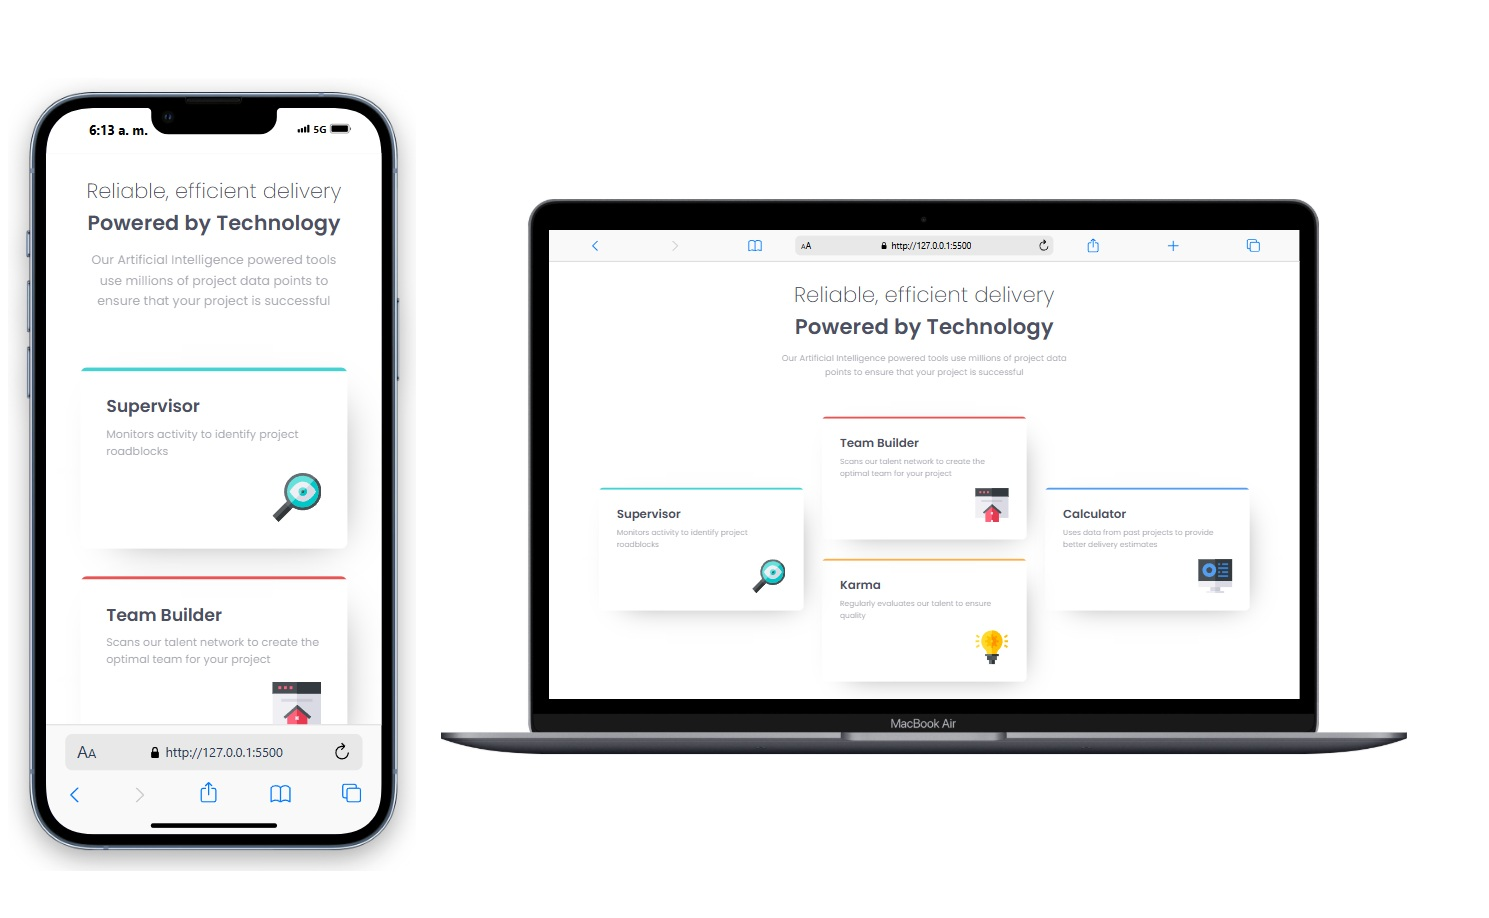
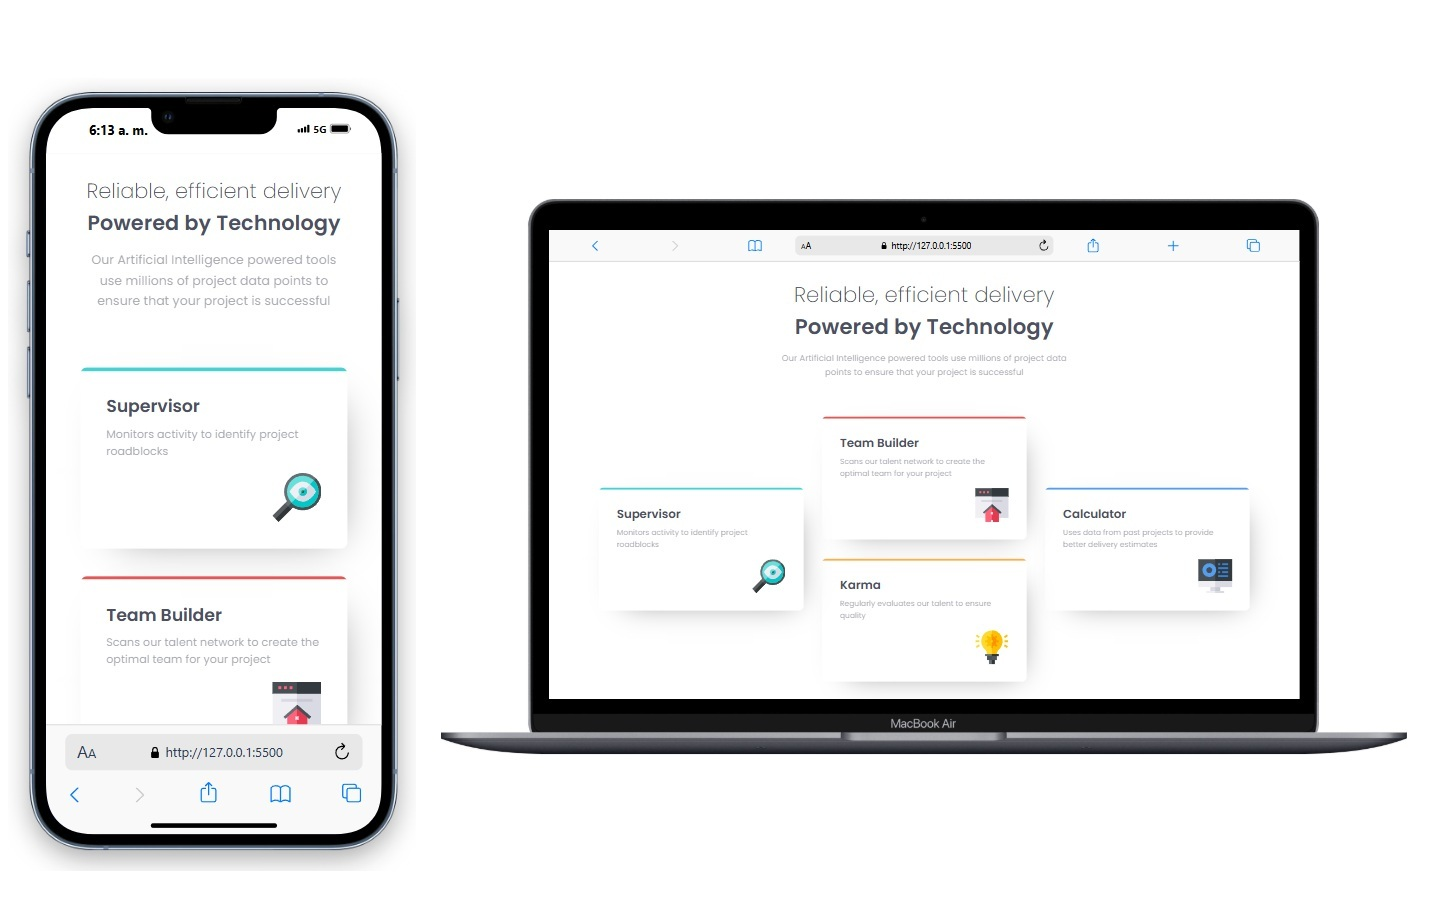
readme

diff --git a/README.md b/README.md
@@ -1,91 +1,85 @@
-# Frontend Mentor - Four card feature section
+# Frontend Mentor - Four card feature section solution
 
-![Design preview for the Four card feature section coding challenge](./design/desktop-preview.jpg)
+This is a solution to the [Four card feature section challenge on Frontend Mentor](https://www.frontendmentor.io/challenges/four-card-feature-section-weK1eFYK). Frontend Mentor challenges help you improve your coding skills by building realistic projects. 
 
-## Welcome! 👋
+## Table of contents
 
-Thanks for checking out this front-end coding challenge.
+- [Overview](#overview)
+  - [The challenge](#the-challenge)
+  - [Screenshot](#screenshot)
+  - [Links](#links)
+- [My process](#my-process)
+  - [Built with](#built-with)
+  - [What I learned](#what-i-learned)
+- [Author](#author)
+- [Instructions](#instructions)
 
-[Frontend Mentor](https://www.frontendmentor.io) challenges help you improve your coding skills by building realistic projects.
 
-**To do this challenge, you need a basic understanding of HTML and CSS.**
 
-## The challenge
+## Overview
 
-Your challenge is to build out this feature section and get it looking as close to the design as possible.
+### The challenge
 
-You can use any tools you like to help you complete the challenge. So if you've got something you'd like to practice, feel free to give it a go.
-
-Your users should:
+Users should be able to:
 
 - View the optimal layout for the site depending on their device's screen size
 
-Want some support on the challenge? [Join our community](https://www.frontendmentor.io/community) and ask questions in the **#help** channel.
+### Screenshot
 
-## Where to find everything
+![](./images/screenshot.jpg)
 
-Your task is to build out the project to the designs inside the `/design` folder. You will find both a mobile and a desktop version of the design. 
 
-The designs are in JPG static format. Using JPGs will mean that you'll need to use your best judgment for styles such as `font-size`, `padding` and `margin`. 
+### Links
 
-If you would like the design files (we provide Sketch & Figma versions) to inspect the design in more detail, you can [subscribe as a PRO member](https://www.frontendmentor.io/pro).
+- Solution URL: [Add solution URL here](https://github.com/NavarroEmiliano/four-card-feature-section)
+- Live Site URL: [Add live site URL here](https://four-card-feature-section-navarro.vercel.app/)
 
-You will find all the required assets in the `/images` folder. The assets are already optimized.
+## My process
 
-There is also a `style-guide.md` file containing the information you'll need, such as color palette and fonts.
+### Built with
 
-## Building your project
+- Semantic HTML5 markup
+- Mobile-first workflow
+- [SASS](https://sass-lang.com/) - For styles
+- Flexbox
+- Grid
 
-Feel free to use any workflow that you feel comfortable with. Below is a suggested process, but do not feel like you need to follow these steps:
 
-1. Initialize your project as a public repository on [GitHub](https://github.com/). Creating a repo will make it easier to share your code with the community if you need help. If you're not sure how to do this, [have a read-through of this Try Git resource](https://try.github.io/).
-2. Configure your repository to publish your code to a web address. This will also be useful if you need some help during a challenge as you can share the URL for your project with your repo URL. There are a number of ways to do this, and we provide some recommendations below.
-3. Look through the designs to start planning out how you'll tackle the project. This step is crucial to help you think ahead for CSS classes to create reusable styles.
-4. Before adding any styles, structure your content with HTML. Writing your HTML first can help focus your attention on creating well-structured content.
-5. Write out the base styles for your project, including general content styles, such as `font-family` and `font-size`.
-6. Start adding styles to the top of the page and work down. Only move on to the next section once you're happy you've completed the area you're working on.
+### What I learned
 
-## Deploying your project
+I learned how to use grid to position elements as a rhombus
 
-As mentioned above, there are many ways to host your project for free. Our recommended hosts are:
 
-- [GitHub Pages](https://pages.github.com/)
-- [Vercel](https://vercel.com/)
-- [Netlify](https://www.netlify.com/)
+## Author
 
-You can host your site using one of these solutions or any of our other trusted providers. [Read more about our recommended and trusted hosts](https://medium.com/frontend-mentor/frontend-mentor-trusted-hosting-providers-bf000dfebe).
 
-## Create a custom `README.md`
+- Website - [Emiliano Navarro](https://emiliano-navarro.vercel.app/)
+- Frontend Mentor - [@NavarroEmiliano](https://www.frontendmentor.io/profile/NavarroEmiliano)
 
-We strongly recommend overwriting this `README.md` with a custom one. We've provided a template inside the [`README-template.md`](./README-template.md) file in this starter code.
 
-The template provides a guide for what to add. A custom `README` will help you explain your project and reflect on your learnings. Please feel free to edit our template as much as you like.
 
-Once you've added your information to the template, delete this file and rename the `README-template.md` file to `README.md`. That will make it show up as your repository's README file.
+### Instructions
 
-## Submitting your solution
+## Generate CSS from Sass
 
-Submit your solution on the platform for the rest of the community to see. Follow our ["Complete guide to submitting solutions"](https://medium.com/frontend-mentor/a-complete-guide-to-submitting-solutions-on-frontend-mentor-ac6384162248) for tips on how to do this.
+This project uses Sass for styling. The `.scss` files are located in the `src/sass` folder. Follow these steps to compile Sass into CSS:
 
-Remember, if you're looking for feedback on your solution, be sure to ask questions when submitting it. The more specific and detailed you are with your questions, the higher the chance you'll get valuable feedback from the community.
+1. Install the project dependencies if you haven’t already:
+   ```bash
+   npm install
 
-## Sharing your solution
+2. Compile the Sass files into CSS using the following command:
+   ```bash
+    npm run build:css
 
-There are multiple places you can share your solution:
+Note: If you encounter an error indicating that sass is not available, you might need to install Sass globally. 
+Run the following command to do so:
 
-1. Share your solution page in the **#finished-projects** channel of the [community](https://www.frontendmentor.io/community). 
-2. Tweet [@frontendmentor](https://twitter.com/frontendmentor) and mention **@frontendmentor**, including the repo and live URLs in the tweet. We'd love to take a look at what you've built and help share it around.
-3. Share your solution on other social channels like LinkedIn.
-4. Blog about your experience building your project. Writing about your workflow, technical choices, and talking through your code is a brilliant way to reinforce what you've learned. Great platforms to write on are [dev.to](https://dev.to/), [Hashnode](https://hashnode.com/), and [CodeNewbie](https://community.codenewbie.org/).
+    npm install -g sass
 
-We provide templates to help you share your solution once you've submitted it on the platform. Please do edit them and include specific questions when you're looking for feedback. 
+Then, try running the command again.
 
-The more specific you are with your questions the more likely it is that another member of the community will give you feedback.
+3. During development, you can use the following command to watch for changes in .scss files and automatically recompile them:
+    ```bash
+    npm run watch:css
 
-## Got feedback for us?
-
-We love receiving feedback! We're always looking to improve our challenges and our platform. So if you have anything you'd like to mention, please email hi[at]frontendmentor[dot]io.
-
-This challenge is completely free. Please share it with anyone who will find it useful for practice.
-
-**Have fun building!** 🚀
